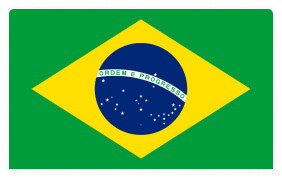
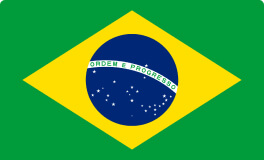
Add countries list

diff --git a/index.html b/index.html
@@ -30,17 +30,236 @@
   <!-- MAIN-CONTENT -->
   <main class="main-content">
     <div class="container">
-      <form class="filters" action="https://echo.htmlacademy.ru" method="GET">
-        <input class="filters-search-input" type="search" name="search" placeholder="Search for a country…" aria-label="Country name" required>
-        <select class="filters-region-select" name="region" aria-label="Regions">
-          <option selected disabled>Filter by Region</option>
-          <option>Africa</option>
-          <option>America</option>
-          <option>Asia</option>
-          <option>Europe</option>
-          <option>Oceania</option>
-        </select>
-      </form>
+      <section>
+        <!-- <h2>Filtrlar</h2> -->
+        <form class="filters" action="https://echo.htmlacademy.ru" method="GET">
+          <input class="filters-search-input" type="search" name="search" placeholder="Search for a country…" aria-label="Country name" required>
+          <select class="filters-region-select" name="region" aria-label="Regions">
+            <option selected disabled>Filter by Region</option>
+            <option>Africa</option>
+            <option>America</option>
+            <option>Asia</option>
+            <option>Europe</option>
+            <option>Oceania</option>
+          </select>
+        </form>
+      </section>
+
+
+      <!-- INDEX-COUNTRIES -->
+      <section class="index-countries">
+        <!-- <h2>Countries</h2> -->
+        <ul class="index-countries-list">
+          <li class="index-countries-item">
+            <div class="index-country">
+              <img class="index-country-flag" src="img/flag-germany.jpg" alt="Germany flag" width="264" height="160" srcset="img/flag-germany.jpg 1x, img/flag-germany@2x.jpg 2x">
+              <div class="index-country-info">
+                <h3 class="index-country-name">
+                  <a class="index-country-link" href="country.html">
+                    Germany
+                  </a>
+                </h3>
+                <dl class="index-country-details">
+                  <div class="index-country-details-item">
+                    <dt class="index-country-details-title">Population:</dt>
+                    <dd class="index-country-details-value">81,770,900</dd>
+                  </div>
+                  <div class="index-country-details-item">
+                    <dt class="index-country-details-title">Region:</dt>
+                    <dd class="index-country-details-value">Europe</dd>
+                  </div>
+                  <div class="index-country-details-item">
+                    <dt class="index-country-details-title">Capital:</dt>
+                    <dd class="index-country-details-value">Berlin</dd>
+                  </div>
+                </dl>
+              </div>
+            </div>
+          </li>
+          <li class="index-countries-item">
+            <div class="index-country">
+              <img class="index-country-flag" src="img/flag-usa.jpg" alt="USA flag" width="264" height="160" srcset="img/flag-usa.jpg 1x, img/flag-usa@2x.jpg 2x">
+              <div class="index-country-info">
+                <h3 class="index-country-name">
+                  <a class="index-country-link" href="country.html">
+                    United States of America
+                  </a>
+                </h3>
+                <dl class="index-country-details">
+                  <div class="index-country-details-item">
+                    <dt class="index-country-details-title">Population:</dt>
+                    <dd class="index-country-details-value">323,947,000</dd>
+                  </div>
+                  <div class="index-country-details-item">
+                    <dt class="index-country-details-title">Region:</dt>
+                    <dd class="index-country-details-value">Americas</dd>
+                  </div>
+                  <div class="index-country-details-item">
+                    <dt class="index-country-details-title">Capital:</dt>
+                    <dd class="index-country-details-value">Washington, D.C.</dd>
+                  </div>
+                </dl>
+              </div>
+            </div>
+          </li>
+          <li class="index-countries-item">
+            <div class="index-country">
+              <img class="index-country-flag" src="img/flag-brazil.jpg" alt="Brazil flag" width="264" height="160" srcset="img/flag-brazil.jpg 1x, img/flag-brazil@2x.jpg 2x">
+              <div class="index-country-info">
+                <h3 class="index-country-name">
+                  <a class="index-country-link" href="country.html">
+                    Brazil
+                  </a>
+                </h3>
+                <dl class="index-country-details">
+                  <div class="index-country-details-item">
+                    <dt class="index-country-details-title">Population:</dt>
+                    <dd class="index-country-details-value">206,135,893</dd>
+                  </div>
+                  <div class="index-country-details-item">
+                    <dt class="index-country-details-title">Region:</dt>
+                    <dd class="index-country-details-value">Americas</dd>
+                  </div>
+                  <div class="index-country-details-item">
+                    <dt class="index-country-details-title">Capital:</dt>
+                    <dd class="index-country-details-value">Brasília</dd>
+                  </div>
+                </dl>
+              </div>
+            </div>
+          </li>
+          <li class="index-countries-item">
+            <div class="index-country">
+              <img class="index-country-flag" src="img/flag-iceland.jpg" alt="Iceland flag" width="264" height="160" srcset="img/flag-iceland.jpg 1x, img/flag-iceland@2x.jpg 2x">
+              <div class="index-country-info">
+                <h3 class="index-country-name">
+                  <a class="index-country-link" href="country.html">
+                    Iceland
+                  </a>
+                </h3>
+                <dl class="index-country-details">
+                  <div class="index-country-details-item">
+                    <dt class="index-country-details-title">Population:</dt>
+                    <dd class="index-country-details-value">334,300</dd>
+                  </div>
+                  <div class="index-country-details-item">
+                    <dt class="index-country-details-title">Region:</dt>
+                    <dd class="index-country-details-value">Europe</dd>
+                  </div>
+                  <div class="index-country-details-item">
+                    <dt class="index-country-details-title">Capital:</dt>
+                    <dd class="index-country-details-value">Reykjavík</dd>
+                  </div>
+                </dl>
+              </div>
+            </div>
+          </li>
+          <li class="index-countries-item">
+            <div class="index-country">
+              <img class="index-country-flag" src="img/flag-ex-afghanistan.jpg" alt="Afghanistan flag" width="264" height="160" srcset="img/flag-ex-afghanistan.jpg 1x, img/flag-ex-afghanistan@2x.jpg 2x">
+              <div class="index-country-info">
+                <h3 class="index-country-name">
+                  <a class="index-country-link" href="country.html">
+                    Afghanistan
+                  </a>
+                </h3>
+                <dl class="index-country-details">
+                  <div class="index-country-details-item">
+                    <dt class="index-country-details-title">Population:</dt>
+                    <dd class="index-country-details-value">27,657,145</dd>
+                  </div>
+                  <div class="index-country-details-item">
+                    <dt class="index-country-details-title">Region:</dt>
+                    <dd class="index-country-details-value">Asia</dd>
+                  </div>
+                  <div class="index-country-details-item">
+                    <dt class="index-country-details-title">Capital:</dt>
+                    <dd class="index-country-details-value">Kabul</dd>
+                  </div>
+                </dl>
+              </div>
+            </div>
+          </li>
+          <li class="index-countries-item">
+            <div class="index-country">
+              <img class="index-country-flag" src="img/flag-aland.jpg" alt="Åland Islands flag" width="264" height="160" srcset="img/flag-aland.jpg 1x, img/flag-aland@2x.jpg 2x">
+              <div class="index-country-info">
+                <h3 class="index-country-name">
+                  <a class="index-country-link" href="country.html">
+                    Åland Islands
+                  </a>
+                </h3>
+                <dl class="index-country-details">
+                  <div class="index-country-details-item">
+                    <dt class="index-country-details-title">Population:</dt>
+                    <dd class="index-country-details-value">28,875</dd>
+                  </div>
+                  <div class="index-country-details-item">
+                    <dt class="index-country-details-title">Region:</dt>
+                    <dd class="index-country-details-value">Europe</dd>
+                  </div>
+                  <div class="index-country-details-item">
+                    <dt class="index-country-details-title">Capital:</dt>
+                    <dd class="index-country-details-value">Mariehamn</dd>
+                  </div>
+                </dl>
+              </div>
+            </div>
+          </li>
+          <li class="index-countries-item">
+            <div class="index-country">
+              <img class="index-country-flag" src="img/flag-albania.jpg" alt="Albania flag" width="264" height="160" srcset="img/flag-albania.jpg 1x, img/flag-albania@2x.jpg 2x">
+              <div class="index-country-info">
+                <h3 class="index-country-name">
+                  <a class="index-country-link" href="country.html">
+                    Albania
+                  </a>
+                </h3>
+                <dl class="index-country-details">
+                  <div class="index-country-details-item">
+                    <dt class="index-country-details-title">Population:</dt>
+                    <dd class="index-country-details-value">2,886,026</dd>
+                  </div>
+                  <div class="index-country-details-item">
+                    <dt class="index-country-details-title">Region:</dt>
+                    <dd class="index-country-details-value">Europe</dd>
+                  </div>
+                  <div class="index-country-details-item">
+                    <dt class="index-country-details-title">Capital:</dt>
+                    <dd class="index-country-details-value">Tirana</dd>
+                  </div>
+                </dl>
+              </div>
+            </div>
+          </li>
+          <li class="index-countries-item">
+            <div class="index-country">
+              <img class="index-country-flag" src="img/flag-algeria.jpg" alt="Algeria flag" width="264" height="160" srcset="img/flag-algeria.jpg 1x, img/flag-algeria@2x.jpg 2x">
+              <div class="index-country-info">
+                <h3 class="index-country-name">
+                  <a class="index-country-link" href="country.html">
+                    Algeria
+                  </a>
+                </h3>
+                <dl class="index-country-details">
+                  <div class="index-country-details-item">
+                    <dt class="index-country-details-title">Population:</dt>
+                    <dd class="index-country-details-value">40,400,000</dd>
+                  </div>
+                  <div class="index-country-details-item">
+                    <dt class="index-country-details-title">Region:</dt>
+                    <dd class="index-country-details-value">Africa</dd>
+                  </div>
+                  <div class="index-country-details-item">
+                    <dt class="index-country-details-title">Capital:</dt>
+                    <dd class="index-country-details-value">Algiers</dd>
+                  </div>
+                </dl>
+              </div>
+            </div>
+          </li>
+        </ul>
+      </section>
     </div>
   </main>
 

diff --git a/css/styles.css b/css/styles.css
@@ -173,6 +173,7 @@ a {
   display: flex;
   justify-content: space-between;
   align-items: center;
+  margin-bottom: 48px;
 }
 
 .filters-search-input {
@@ -193,4 +194,75 @@ a {
   background-color: var(--element-bg);
   color: var(--text-color);
   box-shadow: 0px 2px 9px rgba(0, 0, 0, 0.06);
+}
+
+
+/* INDEX-COUNTRIES */
+.index-countries-list {
+  display: flex;
+  flex-wrap: wrap;
+  padding: 0;
+  margin: 0;
+  margin-left: -75px;
+  margin-bottom: -75px;
+  list-style: none;
+}
+
+.index-countries-item {
+  width: calc(25% - 75px);
+  margin-left: 75px;
+  margin-bottom: 75px;
+}
+
+
+/* INDEX-COUNTRY */
+.index-country {
+  border-radius: 7px;
+  overflow: hidden;
+  background-color: var(--element-bg);
+  color: var(--text-color);
+  box-shadow: 0px 0px 7px 2px rgba(0, 0, 0, 0.03);
+}
+
+.index-country-flag {
+  width: 100%;
+  height: 160px;
+  object-fit: cover;
+}
+
+.index-country-info {
+  padding: 24px 24px 48px;
+}
+
+.index-country-name {
+  margin-top: 0;
+  margin-bottom: 16px;
+  font-size: 18px;
+  line-height: 26px;
+  font-weight: 800;
+}
+
+.index-country-link {
+  color: var(--text-color);
+}
+
+.index-country-details {
+  margin: 0;
+}
+
+.index-country-details-item {
+  display: flex;
+  flex-wrap: wrap;
+}
+
+.index-country-details-item:not(:last-child) {
+  margin-bottom: 8px;
+}
+
+.index-country-details-title {
+  font-weight: 600;
+}
+
+.index-country-details-value {
+  margin-left: 4px;
 }
